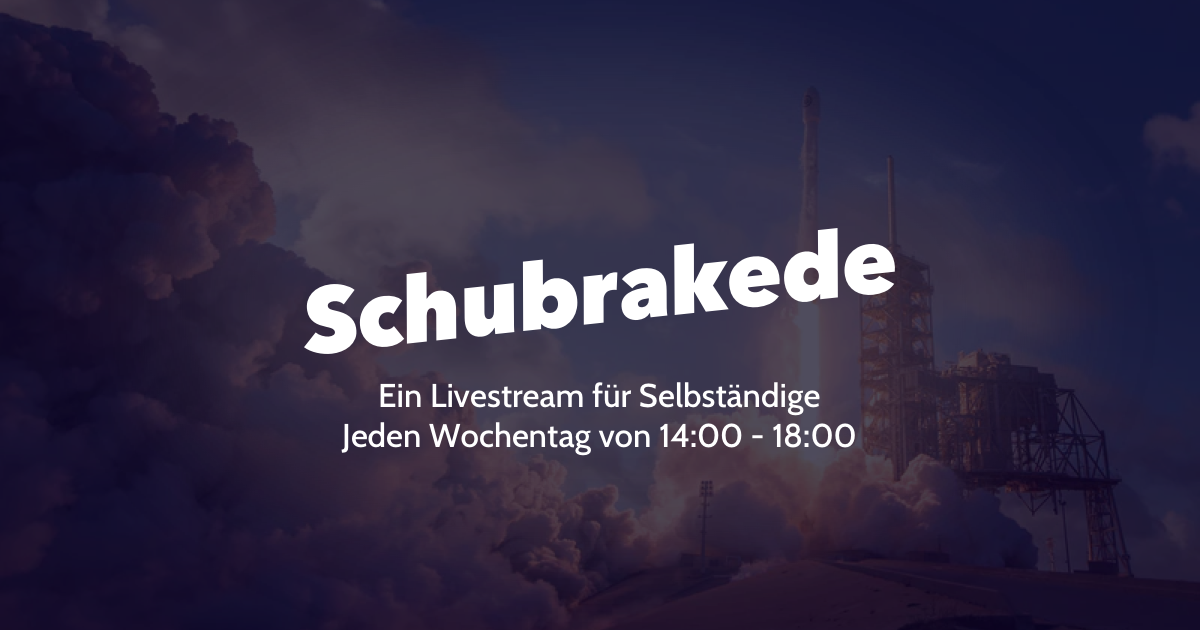
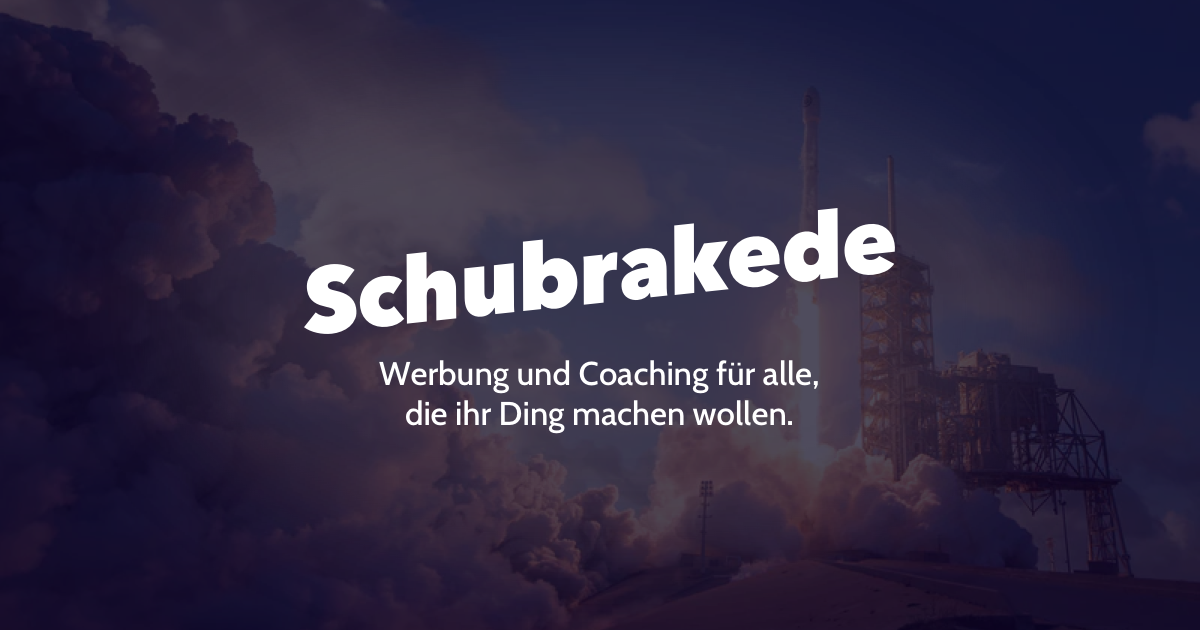
feat: werbung unf coaching

Changed region(s): [[0.2467, 0.3317, 0.7708, 0.7238]]

diff --git a/index.html b/index.html
@@ -5,15 +5,15 @@
     <meta charset="UTF-8">
     <meta name="viewport" content="width=device-width, initial-scale=1.0">
     <meta http-equiv="X-UA-Compatible" content="ie=edge">
-    <title>Schubrakede 🚀 - Ein Projekt um alle zu supporten, die ihr Ding machen wollen.</title>
+    <title>Schubrakede 🚀 - Werbung & Coaching für alle, die ihr Ding machen wollen.</title>
     <meta property="og:site_name" content="Schubrakede 🚀" />
     <meta property="og:title" content="Schubrakede 🚀" />
 
     <link rel="canonical" href="https://www.Schubrakede.de">
     <meta name="robots" content="index, follow">
 
-    <meta name="description" content="Ein Projekt um alle zu supporten, die ihr Ding machen wollen.">
-    <meta property=" og:description" content="Ein Projekt um alle zu supporten, die ihr Ding machen wollen." />
+    <meta name="description" content="Werbung & Coaching für alle, die ihr Ding machen wollen.">
+    <meta property=" og:description" content="Werbung & Coaching für alle, die ihr Ding machen wollen." />
     <meta property="og:image" content="https://schubrakede.de/img/open-graph.png">
     <meta property="og:image:width" content="1200">
     <meta property="og:image:height" content="630">
@@ -26,7 +26,7 @@
     <meta name="twitter:image:width" content="1200">
     <meta name="twitter:image:height" content="675">
     <meta name="twitter:title" content="Schubrakede 🚀">
-    <meta name="twitter:description" content="Ein Projekt um alle zu supporten, die ihr Ding machen wollen.">
+    <meta name="twitter:description" content="Werbung & Coaching für alle, die ihr Ding machen wollen.">
     <meta name="twitter:image" content="https://schubrakede.de/img/open-graph.png">
 
     <script
@@ -51,14 +51,16 @@
             <a href="https://appear.in/schubrakede" class=" sr-button sr-button--appear">Bei Appear.in Schnacken</a>
         </div>
         <div class="stream_overlay-social">
+            <a class="sr-social-link" href="https://www.youtube.com/channel/UCNC51NaCsGSmVAyvHu0TpPQ?view_as=subscriber"><img
+                    class="sr-icon" src="/img/youtube.svg" alt=""></a>
             <a class="sr-social-link" href="https://instagram.com/schubrakede"><img class="sr-icon" src="/img/instagram.svg"
                     alt=""></a>
             <a class="sr-social-link" href="https://anchor.fm/schubrakede"><img class="sr-icon" src="/img/microphone.svg"
                     alt=""></a>
-            <a class="sr-social-link" href="https://www.youtube.com/channel/UCNC51NaCsGSmVAyvHu0TpPQ?view_as=subscriber"><img
-                    class="sr-icon" src="/img/youtube.svg" alt=""></a>
             <a class="sr-social-link" href="https://twitter.com/schubrakede"><img
                 class="sr-icon" src="/img/twitter.svg" alt=""></a>
+            <a class="sr-social-link" href="https://facebook.com/schubrakede"><img
+                class="sr-icon" src="/img/facebook.svg" alt=""></a>
         </div>
 
     </div>
@@ -68,7 +70,7 @@
 
         <div class="header_logo">
             <img src="/img/Schubrakede.svg" alt="">
-            <span class="header_logo-text">Ein Projekt um alle zu supporten, die ihr Ding machen wollen.</span>
+            <span class="header_logo-text">Werbung & Coaching für alle, die ihr Ding machen wollen.</span>
 
             <div class="sr-button-group">
                 <a href="https://twitch.tv/schubrakede" class="sr-button sr-button--twitch">Auf Twitch Folgen</a>
@@ -76,19 +78,35 @@
             </div>
         </div>
         <div class="header_social">
+            <a class="sr-social-link" href="https://www.youtube.com/channel/UCNC51NaCsGSmVAyvHu0TpPQ?view_as=subscriber"><img
+                    class="sr-icon" src="/img/youtube.svg" alt=""></a>
             <a class="sr-social-link" href="https://instagram.com/schubrakede"><img class="sr-icon" src="/img/instagram.svg"
                     alt=""></a>
             <a class="sr-social-link" href="https://anchor.fm/schubrakede"><img class="sr-icon" src="/img/microphone.svg"
                     alt=""></a>
-            <a class="sr-social-link" href="https://www.youtube.com/channel/UCNC51NaCsGSmVAyvHu0TpPQ?view_as=subscriber"><img
-                    class="sr-icon" src="/img/youtube.svg" alt=""></a>
             <a class="sr-social-link" href="https://twitter.com/schubrakede"><img
                         class="sr-icon" src="/img/twitter.svg" alt=""></a>
+        <a class="sr-social-link" href="https://facebook.com/schubrakede"><img
+            class="sr-icon" src="/img/facebook.svg" alt=""></a>
         </div>
     </header>
 
     <main class="content">
         <section class="introduction bgm bgm-fire">
+            
+            <div class="payment">
+                <h2 class="sr-headline payment_headline">100% Kostenlos</h2>
+                <div class="payment_text-grid">
+                    
+                    <p class="sr-paragraph payment_text">
+                        Hä? Wie das geht? Das hier ist ein Experiment bei dem ich Leuten helfen möchte und das nicht für Geld sondern dafür, dass ich das alles öffentlich machen kann.
+                    </p>
+                    <p class="sr-paragraph payment_text">
+                        Falls du hinterher irgendwas für mich tun kannst oder willst kannst du das natürlich tun aber das ist komplett dir überlassen.
+                    </p>
+                </div>
+            </div>
+        
             <div class="introduction_content">
                 <div class="introduction_image-container">
                     <img class="introduction_image" src="/img/20181023-DSC_5675-2.jpg" alt="">
@@ -109,25 +127,12 @@
                     </p>
                 </div>
             </div>
-
-            <div class="payment">
-                <h2 class="sr-headline payment_headline">100% Kostenlos</h2>
-                <div class="payment_text-grid">
-
-                    <p class="sr-paragraph payment_text">
-                       Hä? Wie das geht? Das hier ist ein Experiment bei dem ich Leuten helfen möchte und das nicht für Geld sondern dafür, dass ich das alles öffentlich machen kann.
-                    </p>
-                    <p class="sr-paragraph payment_text">
-                        Falls du hinterher irgendwas für mich tun kannst oder willst kannst du das natürlich tun aber das ist komplett dir überlassen.
-                    </p>
-                </div>
-            </div>
         </section>
 
         <section class="costs bgm bgm-firework">
 
             <h2 class="sr-headline">Kosten</h2>
-            <p class="sr-paragraph costs_introduction">Das hier sind die Kosten die ich abdecken müsste, um davon zu leben.</p>
+            <p class="sr-paragraph costs_introduction">Das hier sind die Kosten die ich abdecken müsste, um von dem Projekt zu leben.</p>
             <div class="costs_graph">
                 <div class="costs_graph-private-amount">
                     2500€
@@ -171,6 +176,7 @@
         </section>
         <section class="supported">
             <h2 class="sr-headline">Wen ich schon supported habe</h2>
+            <a href="https://trello.com/b/Gtjtk5Vw/bugboard">Ihr könnt auch einen Blick aufs Kanban Board werfen</a>
             <ul class="supported_list">
                 <li class="supported-list-item">
                     <span class="supported_list-who">

diff --git a/style.css b/style.css
@@ -94,7 +94,7 @@ body {
 /* Header */
 
 header {
-  background-image: url('/img/desk.png');
+  background-image: url('/img/cards.png');
   background-size: cover;
   background-position: center center;
   padding: calc(var(--sr-base) * 6);
@@ -119,7 +119,7 @@ header {
 
 .header_logo-text {
   max-width: 22rem;
-  margin: 2rem 0;
+  margin: 1rem 0 1.5rem 0;
   text-align: center;
   font-size: 1.4rem;
   line-height: 1.8rem;
@@ -312,8 +312,8 @@ header {
   line-height: 52px;
 }
 
-@media (max-width: 800px){
-  .how-text{
+@media (max-width: 800px) {
+  .how-text {
     font-size: 32px;
     line-height: 40px;
   }
@@ -415,10 +415,9 @@ footer a {
   }
 }
 
-
 /* Supportme */
 
-.support-me{
+.support-me {
   text-align: center;
   color: black;
   background: white;
@@ -431,22 +430,20 @@ footer a {
   flex-direction: column;
 }
 
-@media (max-width: 567px){
-  .support-me{
+@media (max-width: 567px) {
+  .support-me {
     max-width: 95vw;
-    padding: calc(var(--sr-base) * 10)  calc(var(--sr-base) * 6);
-  }  
+    padding: calc(var(--sr-base) * 10) calc(var(--sr-base) * 6);
+  }
 }
 
-h2.support-me-headline{
+h2.support-me-headline {
   margin-top: 0;
   margin-bottom: calc(var(--sr-base) * 10);
 }
 
-
-
-@media (max-width: 1077px){
-  .support-me-buttons{
+@media (max-width: 1077px) {
+  .support-me-buttons {
     grid-auto-flow: row;
     grid-auto-rows: auto;
   }
